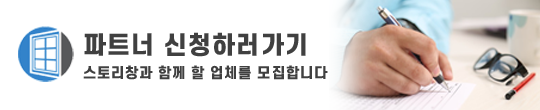
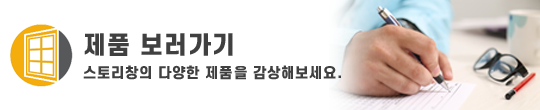
Fix / 스토리창 - 메인색상 오렌지로 변경

Changed region(s): [[0.0, 0.2182, 0.5926, 0.7909], [0.237, 0.6, 0.6519, 0.7364]]

diff --git a/hanbit-front/components/Header/Navbar/index.tsx b/hanbit-front/components/Header/Navbar/index.tsx
@@ -64,7 +64,7 @@ const LOGO_TEXT_TOP = styled.div`
 		letter-spacing:3px;
 		text-align:left;
 		padding-left:20px;
-		color:#312c90;
+		color:#555;
 		transform: scaleX(1.15);
 `;
 
@@ -165,8 +165,8 @@ const Navbar: React.FC<NavbarProps> = (props) => {
 						e.preventDefault();
 						alert('준비중입니다.');
 					}}><span>전국파트너모집</span><img src="/images/consult_img.png" height="28" width="28" className={styles.consult_img} /></a></Link>
-						<CLICKME />
-						<CLICKME_TEXT>클릭 !</CLICKME_TEXT>
+						{/*<CLICKME />
+						<CLICKME_TEXT>클릭 !</CLICKME_TEXT>*/}
 					</li>
 				</ul>
 			</nav>

diff --git a/hanbit-front/components/Shortcut/index.tsx b/hanbit-front/components/Shortcut/index.tsx
@@ -13,7 +13,7 @@ const Shortcut: React.FC = () => {
         <div className={styles.bottomlink}>
             <div className={styles.bottomlink_container}>
                 <div className={styles.bottomlink_item} style={{ cursor: "pointer" }} onClick={() => {
-                    alert('준비중입니다.');
+                    Router.push('/product/list');
                 }}>
                     <img src="/images/bottom_apply.png" width={IMG_WIDTH} height={IMG_HEIGHT} />
                 </div>

diff --git a/hanbit-front/pages/global.color.css b/hanbit-front/pages/global.color.css
@@ -1,6 +1,6 @@
 :root {
     /* Color */
-    --color-main: #47a0f2;
+    --color-main: #f4ad0d;
     --color-main-rgba: 51, 131, 202;
     --color-red: rgb(255, 0, 0);
     --color-blue: rgb(215, 226, 243);

diff --git a/hanbit-front/components/Slider/Imgslider/index.module.css b/hanbit-front/components/Slider/Imgslider/index.module.css
@@ -3,7 +3,7 @@
     width:100%;
     min-width:1024px;
     height:350px;
-    background:#f6fbff;
+    background:#fffdf6;
     text-align:center;
     font-size:0.8em;
     color:white;
